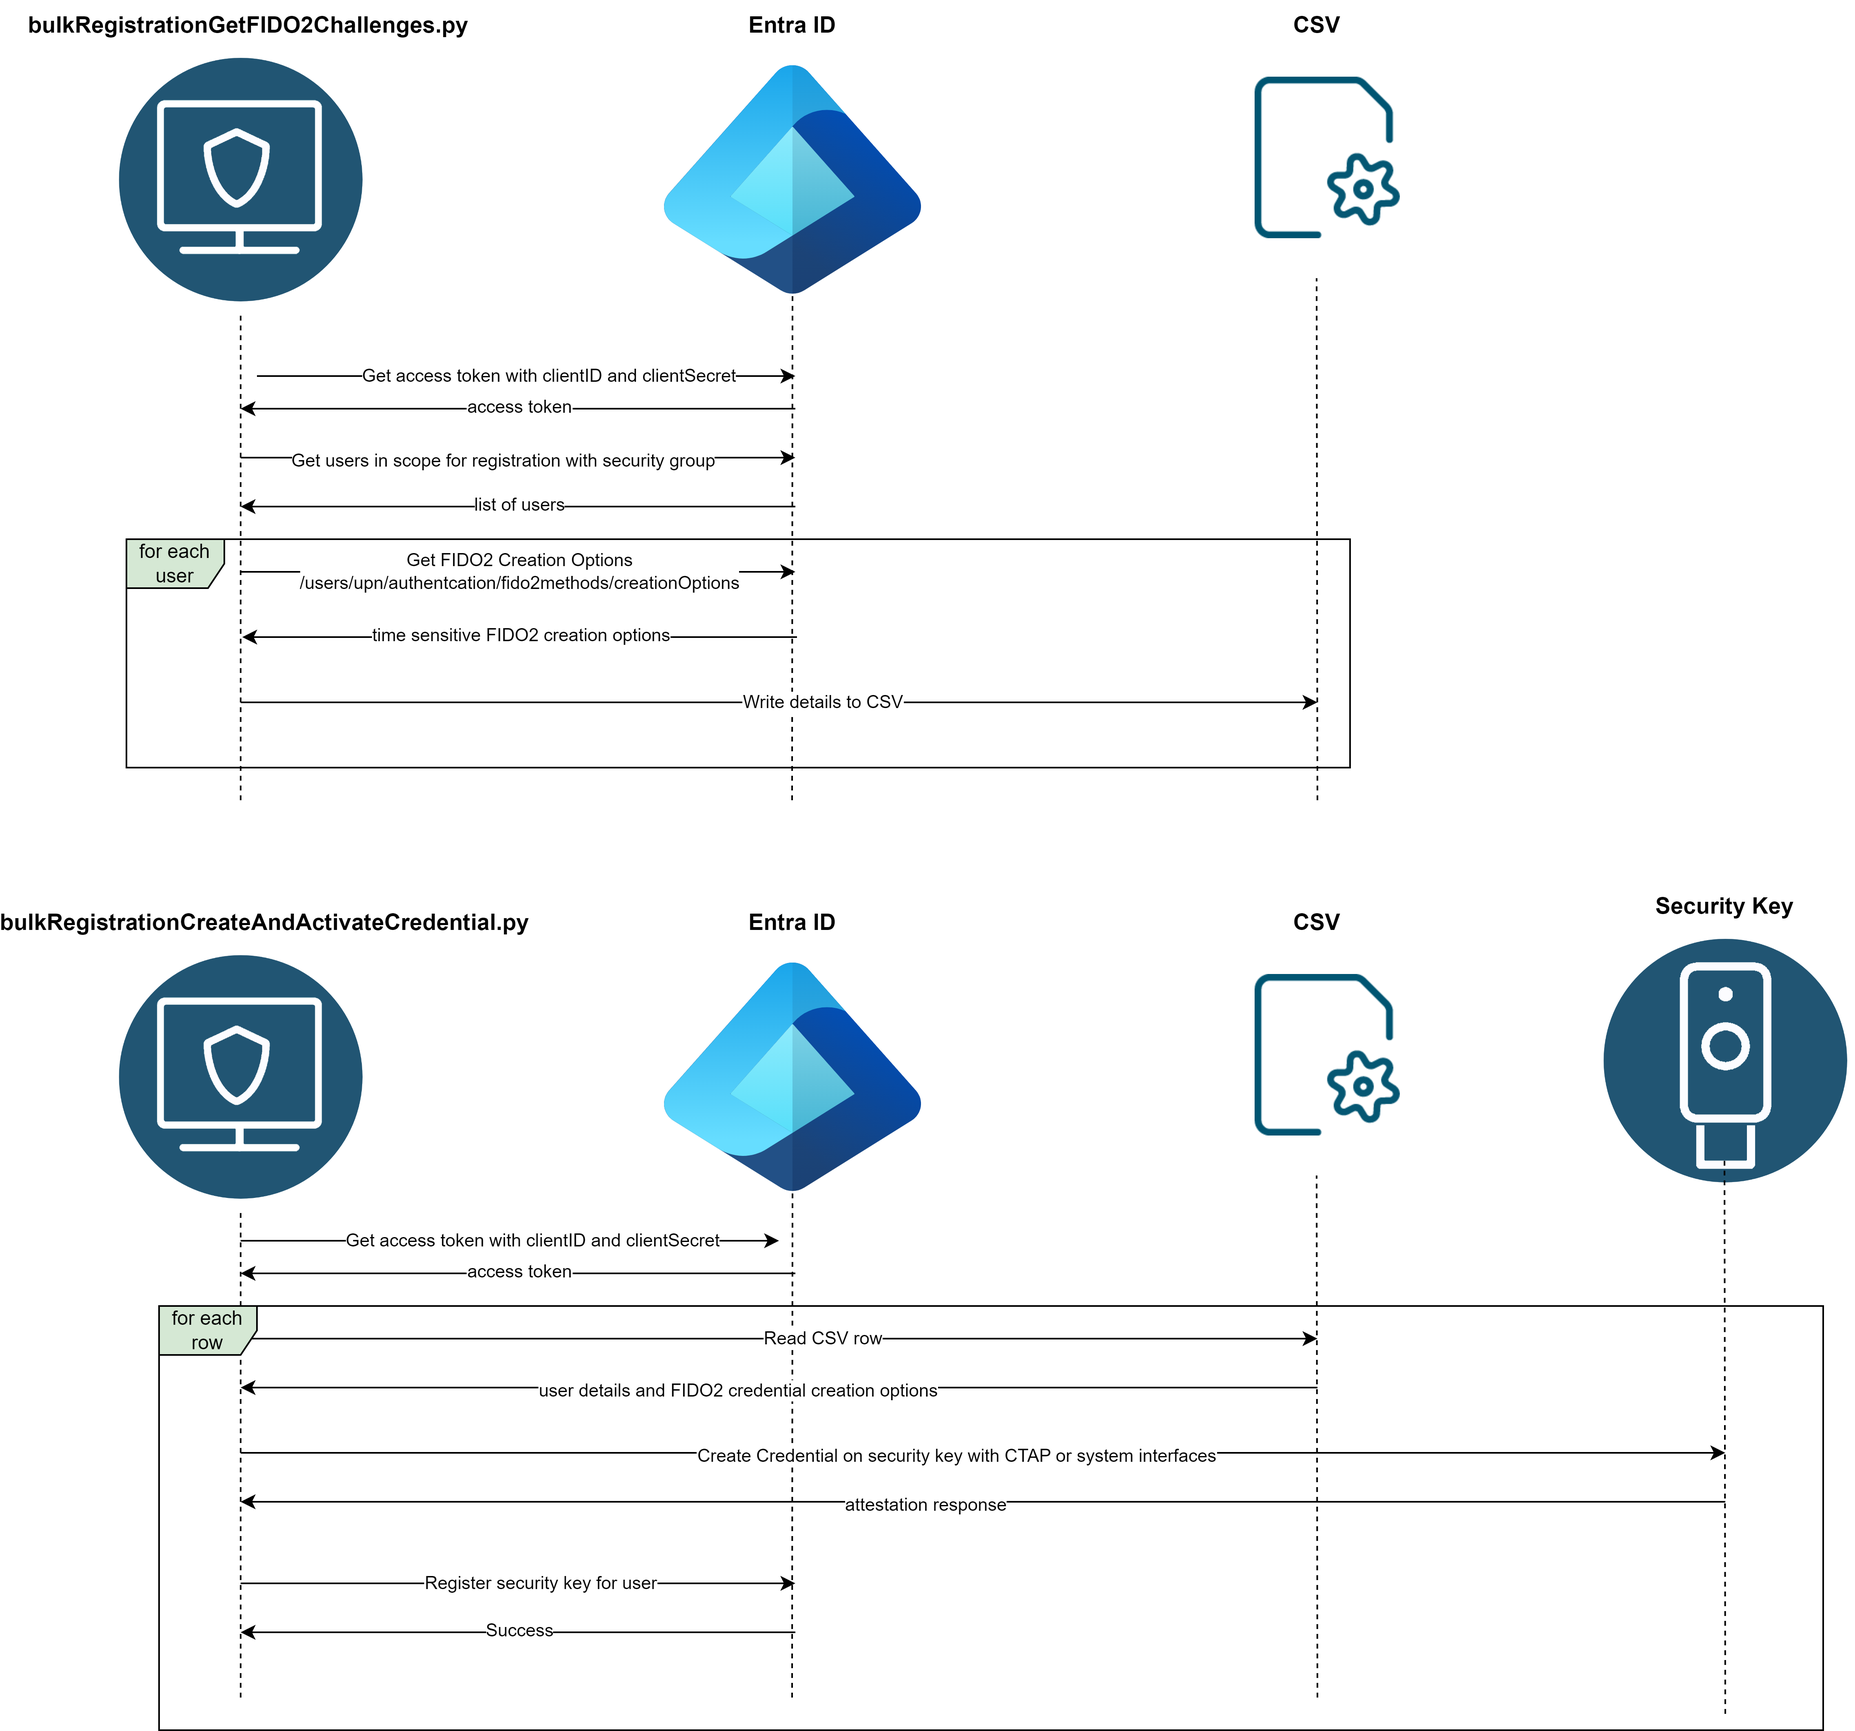
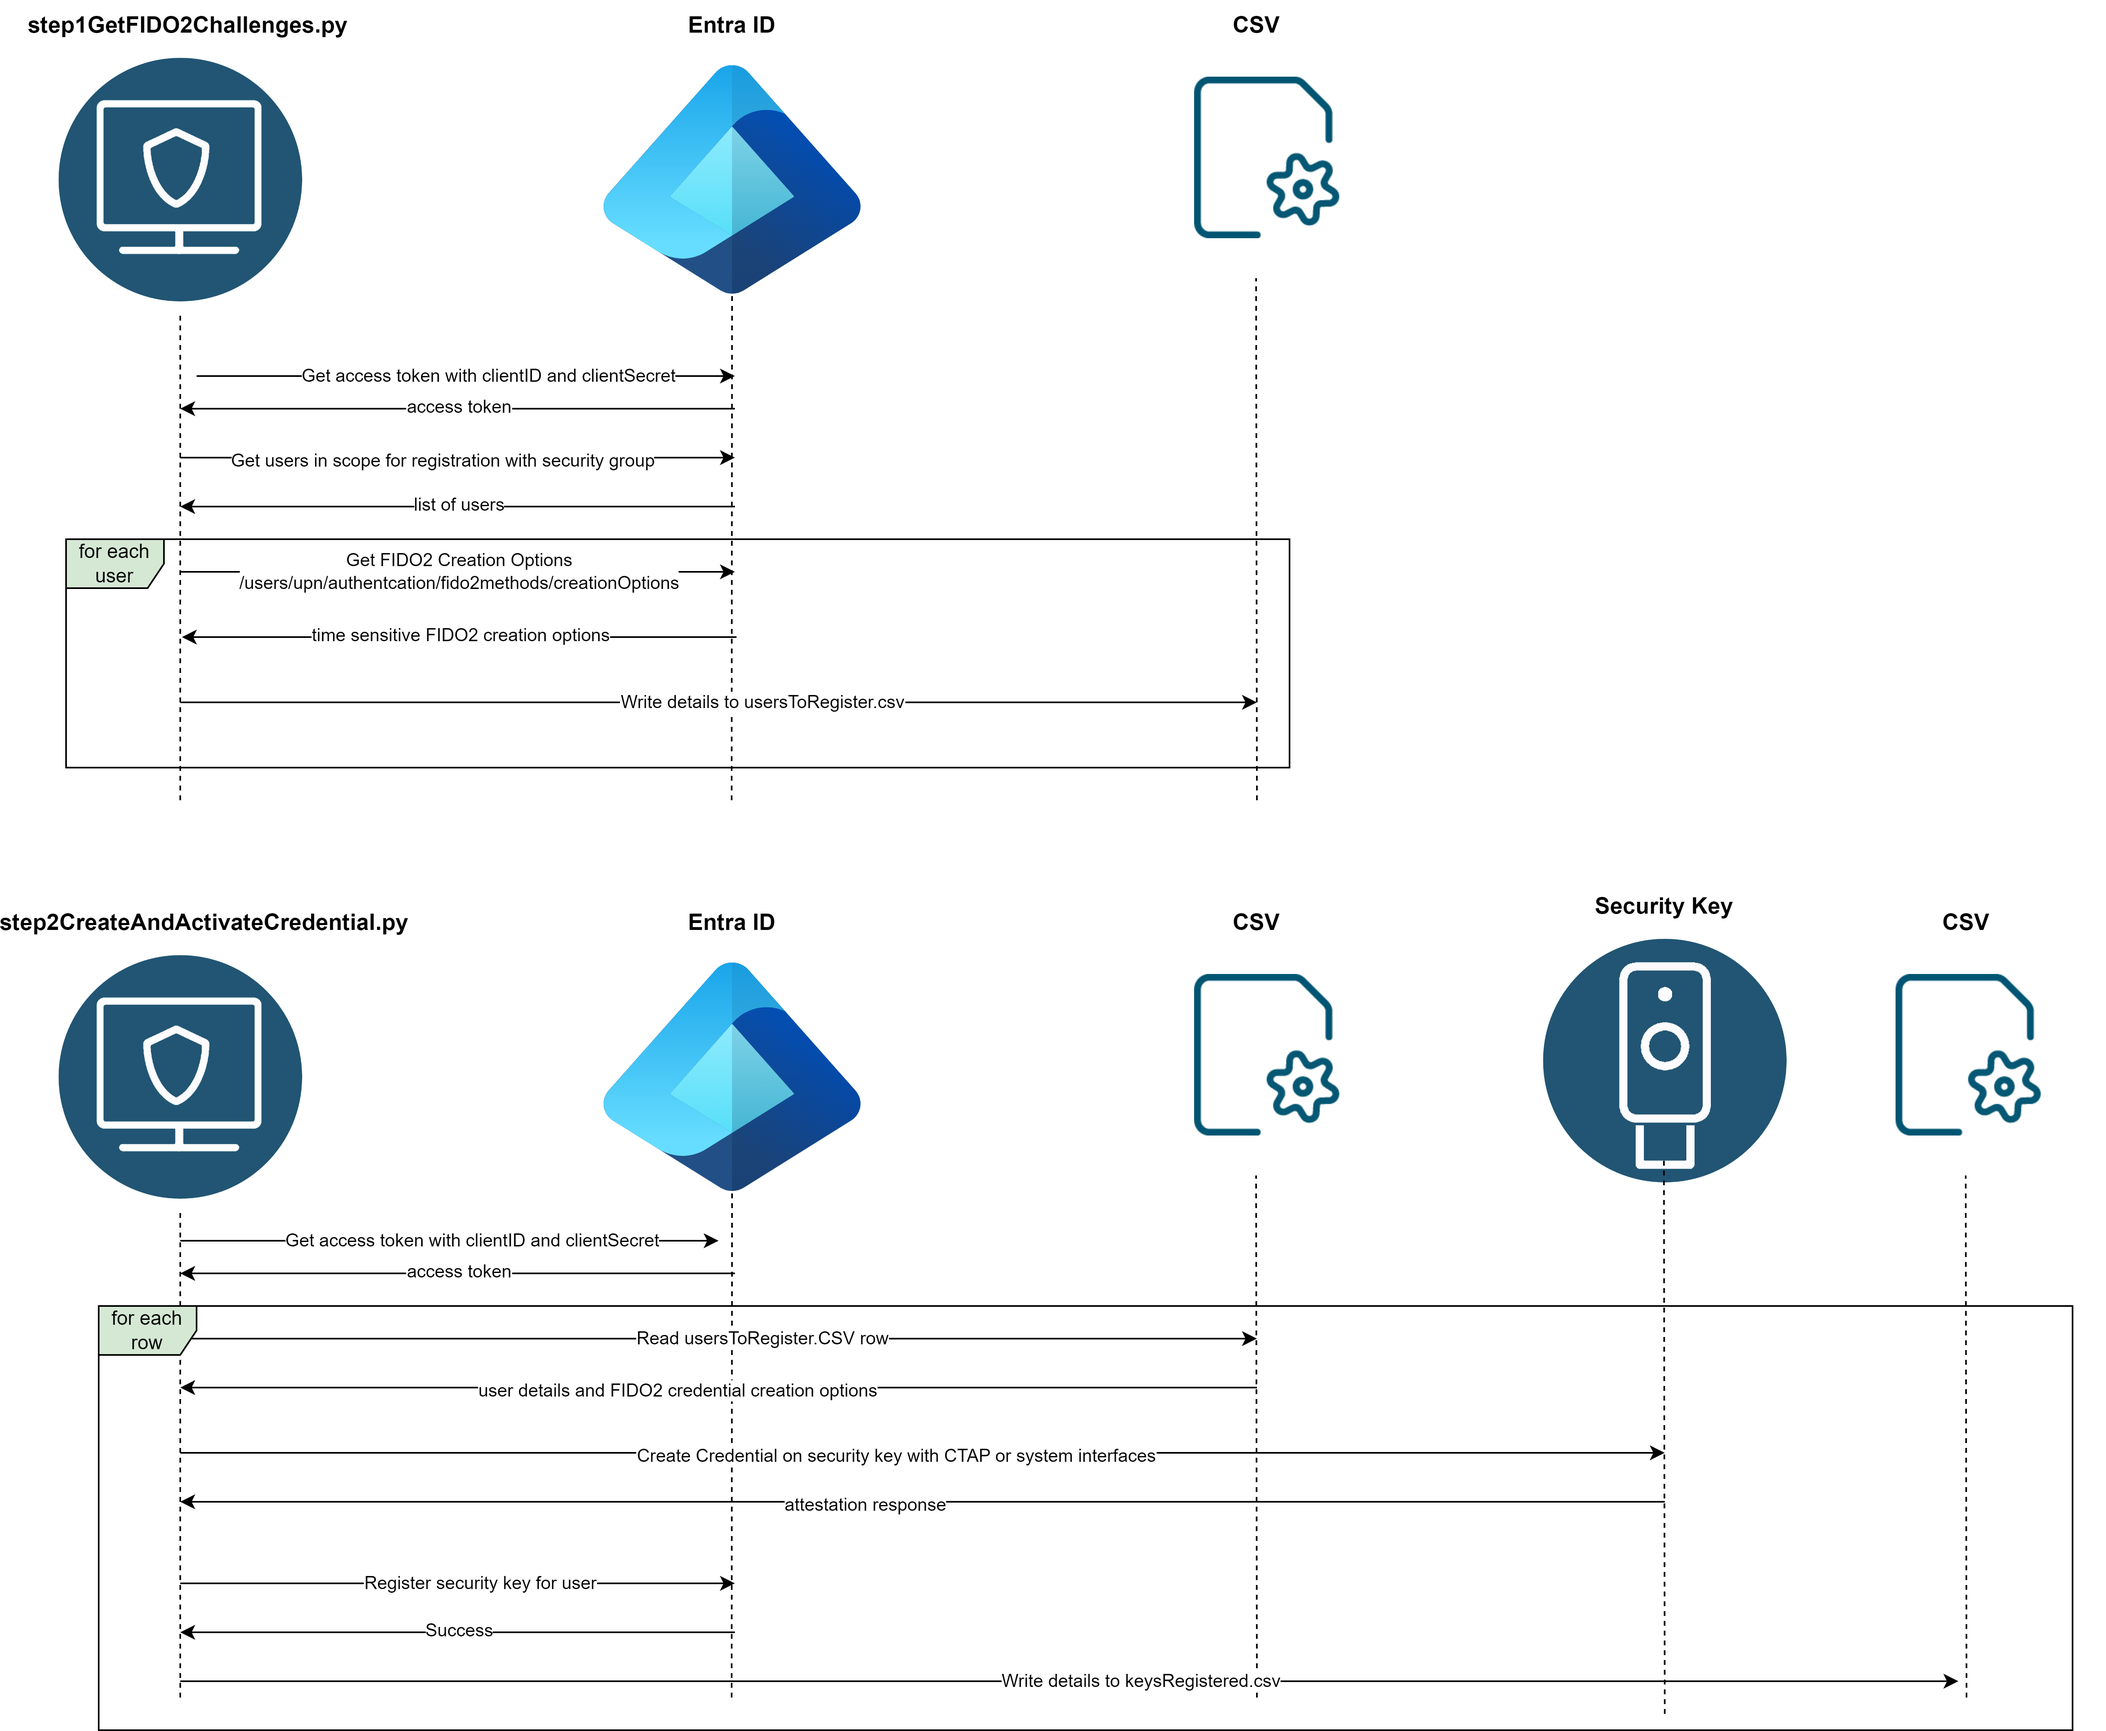
Script renaming and doc updates (#4)
* renamed scripts

* update to diagram

diff --git a/bulkRegistration/step2CreateAndActivateCredential.py b/bulkRegistration/step2CreateAndActivateCredential.py
@@ -63,8 +63,8 @@ urllib3.disable_warnings(urllib3.exceptions.InsecureRequestWarning)
 requests.packages.urllib3.disable_warnings()
 
 
-in_csv_file_name = "./registrationUsers.csv"
-out_csv_file_name = "./registeredKeys.csv"
+in_csv_file_name = "./usersToRegister.csv"
+out_csv_file_name = "./keysRegistered.csv"
 config_file_name = "configs.json"
 pin = ""
 

diff --git a/bulkRegistration/step1GetFIDO2Challenges.py b/bulkRegistration/step1GetFIDO2Challenges.py
@@ -32,7 +32,7 @@ import re
 
 import requests
 
-csv_file_name = "./registrationUsers.csv"
+csv_file_name = "./usersToRegister.csv"
 config_file_name = "configs.json"
 
 

diff --git a/bulkRegistration/BulkRegistration.md b/bulkRegistration/BulkRegistration.md
@@ -1,4 +1,4 @@
-# entraId-register-passkeys-on-behalf-of-users - Bulk Registration
+# entra-Id-register-passkeys-on-behalf-of-users - Bulk Registration
 - This project will use Microsoft Graph APIs to provision FIDO2 credentials on a FIDO2 security key. 
 - This project is an unsupported proof of concept.
 - This project is a simplistic demonstration of how to use the Microsoft Graph APIs to bulk register FIDO2 security keys with a CTAP client for Entra ID users.
@@ -13,7 +13,7 @@ The second script is run to create the credentials on security keys and then reg
 ![Sequence Diagram](../images/bulkRegistrationScripts.png)
 
 ### Script 1
-The first script `bulkRegistrationGetFIDO2Challenges.py` will be used to:
+The first script `step1GetFIDO2Challenges.py` will be used to:
 1. Get a list of users that are in scope for enrollment of FIDO2 credentials. This is currently controlled by membership in a group name that is set in the `configs.json` file. 
 2. For each of the members of the group, the script will call the Graph API for
   `/users/{userPrincipalName | id}/authentication/fido2Methods/creationOptions`
@@ -21,7 +21,7 @@ The first script `bulkRegistrationGetFIDO2Challenges.py` will be used to:
 3. The script writes the relevant details to a csv file. 
 
 ### Script 2
-The second script `bulkRegistrationCreateAndActivateCredential.py` will be used to:
+The second script `step2CreateAndActivateCredential.py` will be used to:
 1. Process the csv file one by one to:
     1. Use the csv to build the fido2 credential creation parameters to create a credential on a YubiKey.
     2. Get the response from the YubiKey and call the Graph API for:
@@ -84,16 +84,16 @@ The second script `bulkRegistrationCreateAndActivateCredential.py` will be used 
 ## How to run
 1. Open terminal.  Notes about running on Windows.
     1. When running the script without administrative privileges, the WinAPI is used (webauthn.dll). This has different behaviors and capabilities than when running the script in admin mode. 
-       Besides the user interface differences, it should be noted that some extensions like credProtectionPolicies cannot be set using webauthn.dll. Entra ID specifically requests credProtect policy level 1 (aka optional) when creating FIDO2 credentials.  This doesn't get explicitly set when using webauthn.dll. Note that the default behavior for the YubiKey is to use Level 1 if not explicitly set so effectively the results are similar.  Also note that the configs.json `userRandomPIN` will be ignored if enabled and the user will be prompted to set a PIN during registration instead of using a randomly generated one.
+       Besides the user interface differences, it should be noted that some extensions like credProtectionPolicies cannot be set using webauthn.dll. Entra ID specifically requests credProtect policy level 1 (aka optional) when creating FIDO2 credentials.  This doesn't get explicitly set when using webauthn.dll. Note that the default behavior for the YubiKey is to use Level 1 if not explicitly set so effectively the results are similar.  Also note that the configs.json `useRandomPIN` will be ignored if enabled and the user will be prompted to set a PIN during registration instead of using a randomly generated one.
     3. When running the script with administrator privileges, a FIDOClient is instead used and supports additional capabilities.
 
-2. Call `python bulkRegistrationGetFIDO2Challenges.py`
+2. Call `python step1GetFIDO2Challenges.py`
 3. Verify the console output looks successful and completed. 
-4. Verify the `registrationUsers.csv` file contents look completed with a header row + probably 1 or2 rows of data representing distinct users.
+4. Verify the `usersToRegister.csv` file contents look completed with a header row + probably 1 or more rows of data representing distinct users.
    You should see 1 row of data in the csv file for each member in the configured Entra ID security group. 
 5. Be ready to have YubiKey(s) available to create credentials on the YubiKeys. 
-6. Call `python bulkRegistrationCreateAndActivateCredential.py`.
-7. Verify the registeredKeys.csv file is populated with registration information. 
+6. Call `python step2CreateAndActivateCredential.py`.
+7. Verify the `keysRegistered.csv` file is populated with registration information. 
 8. Test that the registered security keys work for some of the core use-cases below.
 
 ## Suggested areas to test

diff --git a/README.md b/README.md
@@ -1,4 +1,4 @@
-# entraId-register-passkeys-on-behalf-of-users
+# entra-Id-register-passkeys-on-behalf-of-users
 - This project will use Microsoft Graph APIs to provision FIDO2 credentials on a FIDO2 security key. 
 - This project is an unsupported proof of concept.
 - This project is a simplistic demonstration of how to use the Microsoft Graph APIs to register a FIDO2 security key with a CTAP client. 
@@ -23,13 +23,6 @@ Microsoft Graph APIs allow for customers to develop solutions that allow for FID
 - A FIDO2 security key like a YubiKey
 
 ![Sequence Diagram](images/SolutionOverview-FIDO2-security-key-Admin-on-behalf-of-registration.png)
-
-## Prerequisites
-- Entra ID free tenant
-- A registered application in Entra ID with delegated or application permissions allowing Graph permissions for: `UserAuthenticationMethod.ReadWrite.All`
-- If using delegated permissions, an administrator with Global Administrator or Authentication Administrator roles. Role may be assigned/constrained as part of an administrative unit.
-- FIDO2 Security keys are enabled as an authentication method for the users
-
 
 ## Scenarios supported
 - Administrator led registration of users' primary and backup FIDO2 security keys.
